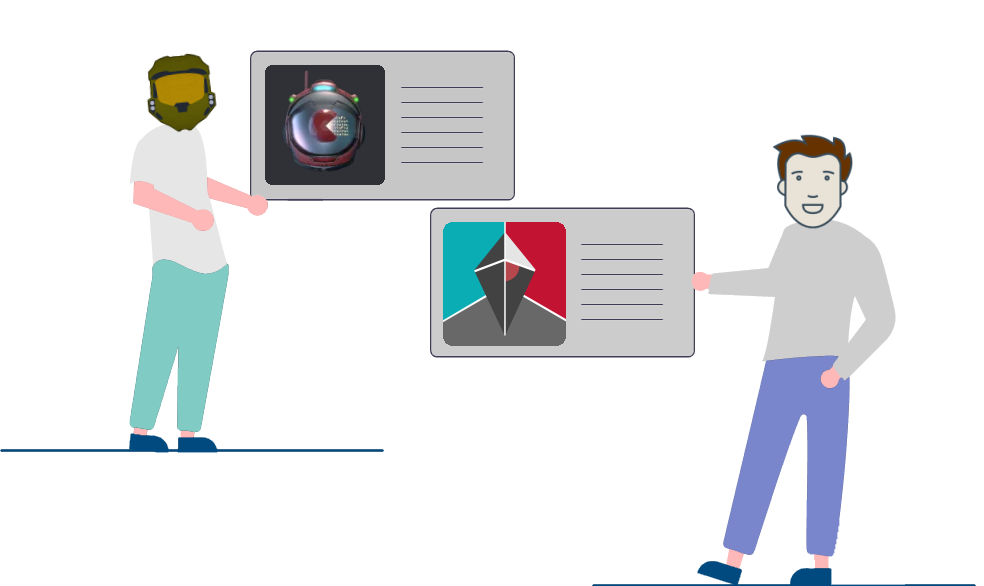
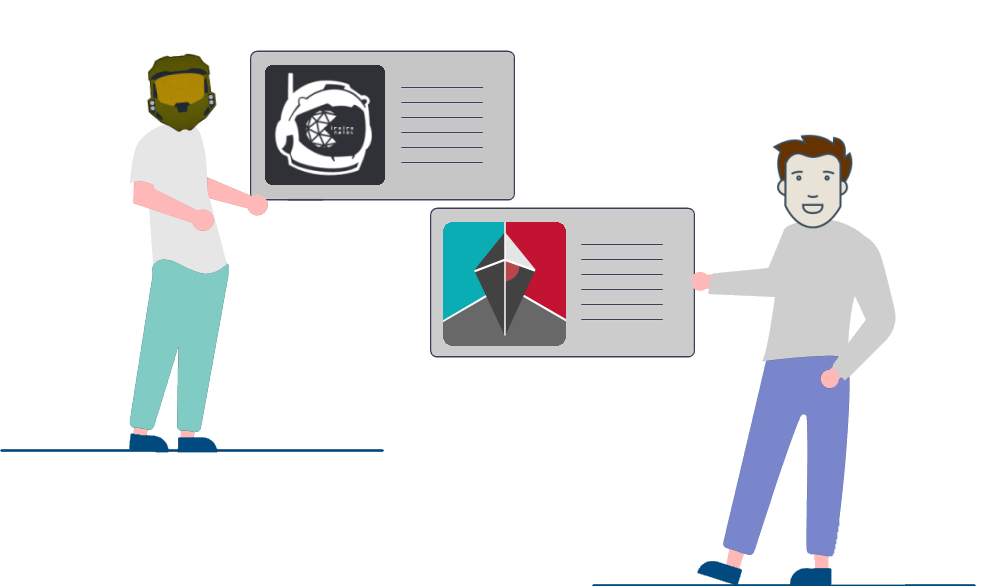
🚧 #95 Add links to NomNom

Changed region(s): [[0.2744, 0.1229, 0.3963, 0.3072]]

diff --git a/lib/components/modalBottomSheet/syncWithNomNomModalBottomSheet.dart b/lib/components/modalBottomSheet/syncWithNomNomModalBottomSheet.dart
@@ -2,24 +2,24 @@ import 'dart:async';
 
 import 'package:assistantapps_flutter_common/assistantapps_flutter_common.dart';
 import 'package:assistantapps_flutter_common/contracts/enum/networkState.dart';
-import 'package:assistantnms_app/constants/AppImage.dart';
-import 'package:assistantnms_app/contracts/generated/nomNomInventoryViewModel.dart';
-import 'package:assistantnms_app/integration/dependencyInjection.dart';
 import 'package:flutter/material.dart';
 import 'package:flutter_redux/flutter_redux.dart';
 import 'package:pin_code_fields/pin_code_fields.dart';
 
 import '../../constants/AppDuration.dart';
+import '../../constants/AppImage.dart';
 import '../../constants/Modal.dart';
 import '../../constants/NmsUIConstants.dart';
 import '../../constants/UserSelectionIcons.dart';
+import '../../contracts/generated/nomNomInventoryViewModel.dart';
 import '../../contracts/inventory/inventory.dart';
 import '../../contracts/inventory/inventorySlot.dart';
 import '../../contracts/inventory/inventorySlotDetails.dart';
 import '../../contracts/redux/appState.dart';
 import '../../contracts/redux/inventoryState.dart';
-import '../../redux/modules/setting/shareViewModel.dart';
+import '../../integration/dependencyInjection.dart';
 import '../../redux/modules/viewModel/syncPageViewModel.dart';
+import '../tilePresenters/youtubersTilePresenter.dart';
 
 class SyncWithNomNomBottomSheet extends StatefulWidget {
   const SyncWithNomNomBottomSheet({Key key}) : super(key: key);
@@ -45,6 +45,10 @@ class _SyncWithNomNomBottomSheetState extends State<SyncWithNomNomBottomSheet> {
         widgets.add(genericItemDescription(
             'Sync your in game inventory with the app through the NomNom save editor!\nOnly available for PC'));
         widgets.add(localImage(AppImage.nomNomHeader));
+        widgets.add(emptySpace2x());
+        widgets.add(Card(
+          child: nomNomDownloadTile(context, subtitle: 'Download from Github'),
+        ));
         widgets.add(emptySpace2x());
 
         if (networkState == NetworkState.Error) {
@@ -124,6 +128,8 @@ class _SyncWithNomNomBottomSheetState extends State<SyncWithNomNomBottomSheet> {
                 setState(() {
                   networkState = NetworkState.Success;
                 });
+
+                getNavigation().pop(context);
               },
               onChanged: (value) {},
             ),

diff --git a/lib/pages/sync/syncPage.dart b/lib/pages/sync/syncPage.dart
@@ -11,6 +11,7 @@ import '../../components/scaffoldTemplates/genericPageScaffold.dart';
 import '../../components/tilePresenters/asyncSettingTilePresenter.dart';
 import '../../components/tilePresenters/settingTilePresenter.dart';
 import '../../constants/AnalyticsEvent.dart';
+import '../../constants/AppImage.dart';
 import '../../contracts/redux/appState.dart';
 import '../../contracts/redux/inventoryState.dart';
 import '../../contracts/redux/portalState.dart';
@@ -298,10 +299,11 @@ class _SyncWidget extends State<SyncPage> {
     ));
 
     // widgets.add(flatCard(
-    //   child: genericListTile(
+    //   child: genericListTileWithSubtitle(
     //     context,
-    //     leadingImage: null,
+    //     leadingImage: AppImage.nomnom,
     //     name: 'Sync with NomNom save editor',
+    //     subtitle: const Text('Transfer your in game inventory'),
     //     onTap: () {
     //       adaptiveBottomModalSheet(
     //         context,

diff --git a/lib/components/tilePresenters/youtubersTilePresenter.dart b/lib/components/tilePresenters/youtubersTilePresenter.dart
@@ -129,3 +129,16 @@ Widget veritasVelezTile(BuildContext context, {String subtitle}) =>
       trailing: const Icon(Icons.open_in_new),
       onTap: () => launchExternalURL(NmsExternalUrls.veritasVelezTwitter),
     );
+
+Widget nomNomDownloadTile(BuildContext context, {String subtitle}) =>
+    genericListTileWithSubtitleAndImageCount(
+      context,
+      leadingImage: localImage(
+        AppImage.nomnom,
+        padding: const EdgeInsets.all(8),
+      ),
+      title: 'NomNom',
+      subtitle: Text(subtitle ?? NmsExternalUrls.nomNomWebsite, maxLines: 1),
+      trailing: const Icon(Icons.open_in_new),
+      onTap: () => launchExternalURL(NmsExternalUrls.nomNomWebsite),
+    );

diff --git a/lib/pages/inventory/searchAllInventoriesPage.dart b/lib/pages/inventory/searchAllInventoriesPage.dart
@@ -26,7 +26,9 @@ class SearchAllInventoriesPage extends StatelessWidget {
           title: getTranslations().fromKey(LocaleKey.inventoryManagement),
           body: SearchableList<InventorySlotWithContainersAndGenericPageItem>(
             () => getDetailedInventorySlotsWithContainer(
-                context, viewModel.containers),
+              context,
+              viewModel.containers,
+            ),
             listItemDisplayer: inventorySlotTileWithContainersPresenter,
             listItemSearch: searchInventory,
             key: Key('numItems: ${viewModel.containers.length}'),

diff --git a/lib/constants/AppImage.dart b/lib/constants/AppImage.dart
@@ -128,6 +128,7 @@ class AppImage {
   static const String podcast1616 = 'contributors/podcast1616.jpg';
   static const String cyberpunk2350 = 'contributors/cyberpunk2350.jpg';
   static const String veritasVelez = 'contributors/veritasVelez.jpg';
+  static const String nomnom = 'contributors/nomnomSimple.png';
   static const String assistantNMSIcon = 'icon.png';
   static const String assistantNMSWindowIcon = 'window_icon.png';
   static const String kurtlIcon = 'KurtLourens.png';

diff --git a/lib/constants/NmsExternalUrls.dart b/lib/constants/NmsExternalUrls.dart
@@ -46,4 +46,5 @@ class NmsExternalUrls {
       'https://raw.githubusercontent.com/NMSCD/Community-Search/main/src/assets/data/chipColours.json';
   static const String communitySearchAddLinkForm =
       'https://airtable.com/shrhZOQrrp9a9zoJk';
+  static const String nomNomWebsite = 'https://cengelha.github.io/NomNom/';
 }
